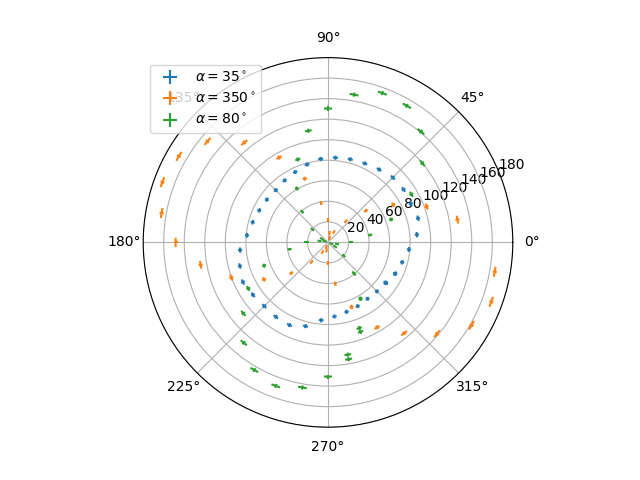
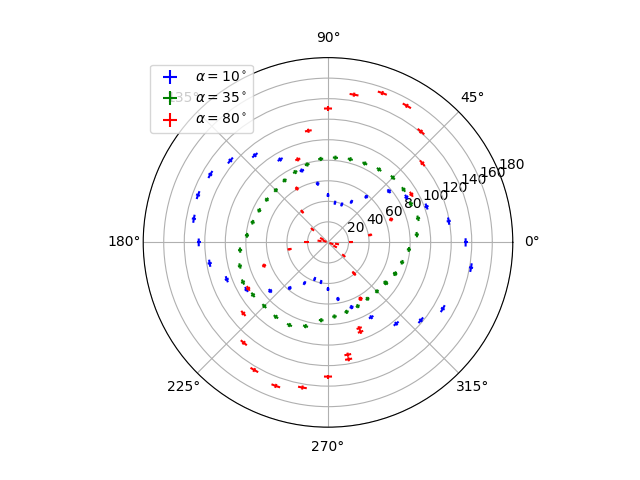
fixed polar plot and half wave

diff --git a/polarization/wave_plates.py b/polarization/wave_plates.py
@@ -50,14 +50,26 @@ def plot_folder(folder_name):
     plt.show()
 
 
+def chi(I):
+    max = np.max(I)
+    min = np.min(I)
+    mean = (max+min)/2
+    amp = (max-min)/2
+    return amp/mean
+
+
 def quarter_polar():
     ax = plt.subplot(111, projection='polar')
-
-    for file in ['quarter_waveplate/plate35.xlsx', 'quarter_waveplate/plate350.xlsx', 'quarter_waveplate/plate80.xlsx']:
-        theta, power, alpha = get_single(file)
+    colors = ['b', 'g', 'r']
+    paths = ['quarter_waveplate/plate10.xlsx', 'quarter_waveplate/plate35.xlsx', 'quarter_waveplate/plate80.xlsx']
+    for i in range(3):
+        path = paths[i]
+        color = colors[i]
+        theta, power, alpha = get_single(path)
+        print(chi(power))
         theta = theta*np.pi/180
         theta_err, power_err = [0.03 for v in theta], [2 for v in power]
-        ax.errorbar(x=theta, y=power, xerr=theta_err, yerr=power_err, fmt='', linestyle='', label=f'$\\alpha={alpha}^\circ$')
+        ax.errorbar(x=theta, y=power, xerr=theta_err, yerr=power_err, fmt='', linestyle='', label=f'$\\alpha={alpha}^\circ$', color=color)
     
     ax.legend()
     ax.grid(True)
@@ -179,7 +191,7 @@ def plot_halfwave():
         plt.errorbar(x, y, xerr=x_err, yerr=y_err, fmt='.', color=color)
         plt.plot(x_fit, y_fit, label=label, color=color)
 
-    plt.plot(roots, [0 for _ in roots], 'o', markersize=10, color='r', label='minimum')
+    plt.plot(roots, [0 for _ in roots], 'o', markersize=10, color='r')
     plt.xlabel('$\\theta [^\circ]$')
     plt.ylabel('I $[\mu A]$')
     plt.legend()
@@ -198,7 +210,7 @@ def fit_half_plate(data_set):
 
 
 if __name__ == "__main__":
-    # quarter_polar()
-    plot_halfwave()
+    quarter_polar()
+    # plot_halfwave()
     # elliptical_polar()
 
